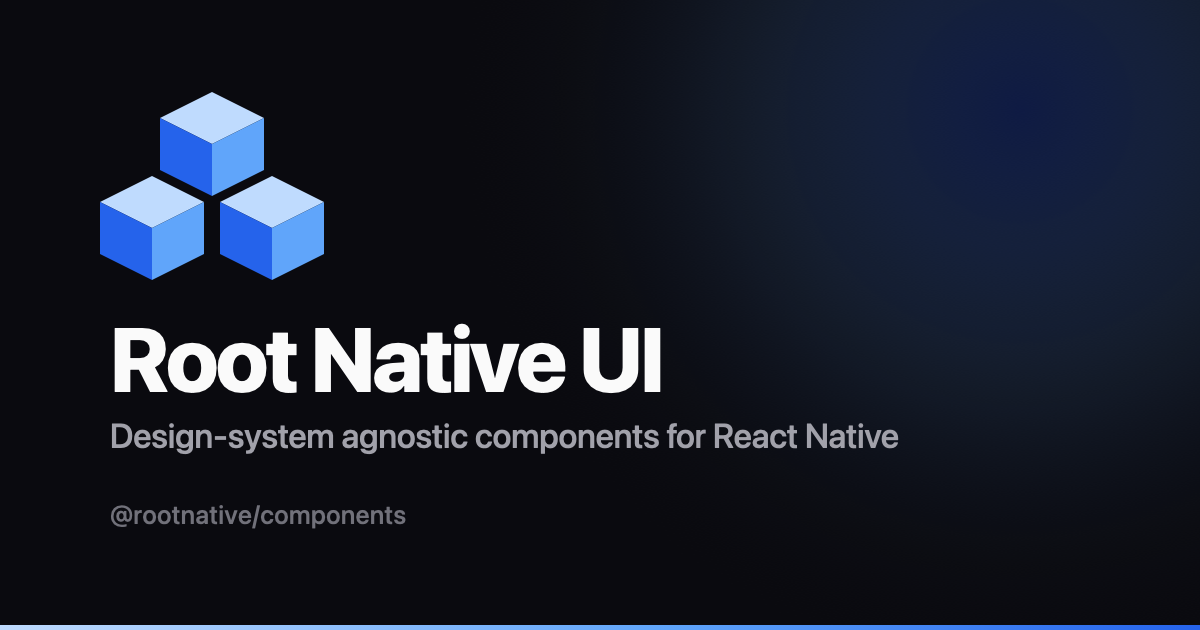
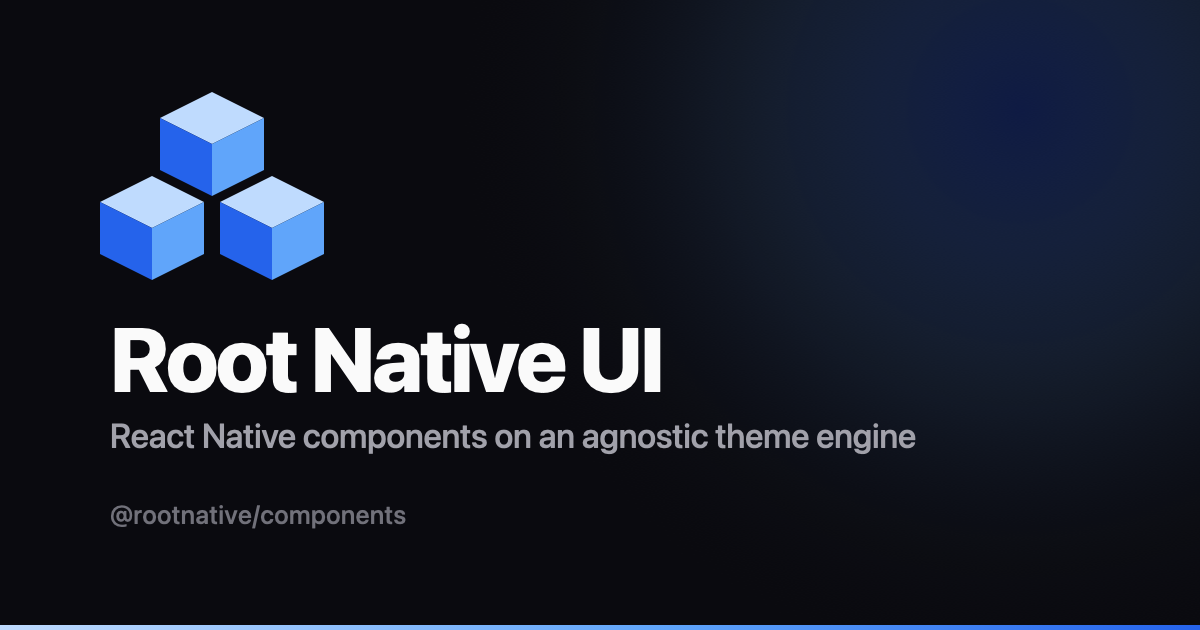
docs: say the theme engine is design-system agnostic, not the components

Changed region(s): [[0.0925, 0.6635, 0.7708, 0.7238]]

diff --git a/docs/src/pages/index.tsx b/docs/src/pages/index.tsx
@@ -165,9 +165,10 @@ function Hero() {
             <span className={styles.heroHighlight}>out of the box.</span>
           </h1>
           <p className={styles.heroTagline}>
-            A design-system agnostic component library. Ships with Material
-            Design 3, runs on iOS, Android, and web, works with Expo and bare
-            React Native, and stays out of your way when you want to customize.
+            Material Design 3 components on a design-system agnostic theme
+            engine. Restyle every component through the theme, add your own
+            tokens, and ship to iOS, Android, and the web, with Expo or bare
+            React Native.
           </p>
           <div className={styles.heroCtas}>
             <Link className={styles.ctaPrimary} to="/introduction">
@@ -235,9 +236,9 @@ function Stats() {
 
 const features = [
   {
-    title: 'Design-system agnostic',
+    title: 'Design-system agnostic theme',
     description:
-      'Use Material Design 3 out of the box, build your own theme system, or mix both. The theme engine adapts to your design language.',
+      'The components read the Material Design 3 roles. Give those roles your own values, add your own tokens beside them, or define a theme type for your own components.',
     Icon: IconTheme,
   },
   {

diff --git a/scripts/build-llms.ts b/scripts/build-llms.ts
@@ -3659,7 +3659,7 @@ ${seoApiContent()}
 function generateFullLlms(): string {
   return `# Root Native UI — Full API Reference
 
-> Design-system agnostic component library for React Native — ships with Material Design 3
+> React Native components on a design-system agnostic theme engine. Material Design 3 out of the box.
 > Versions: \`@rootnative/core\` ${CORE_VERSION} · \`@rootnative/components\` ${COMPONENTS_VERSION} · \`@rootnative/icons\` ${ICONS_VERSION} · \`@rootnative/seo\` ${SEO_VERSION} · \`@rootnative/cli\` ${CLI_VERSION}
 > Requirements: react-native ${COMPONENTS_RN}, react ${COMPONENTS_REACT}, Expo SDK ${EXPO_SDK}
 > Platforms: iOS, Android, and web through \`react-native-web\` (web also needs \`react-dom\`). Web without Expo (Vite, webpack, Electron) needs the config in the "Web without Expo" section below. Electron, macOS, Windows, and other React Native hosts are not tested.

diff --git a/docs/docusaurus.config.ts b/docs/docusaurus.config.ts
@@ -49,7 +49,7 @@ const config: Config = {
 
   title: 'Root Native UI',
   tagline:
-    'Design-system agnostic components for React Native on iOS, Android, and web',
+    'React Native components on a design-system agnostic theme engine. Material Design 3 out of the box.',
   url: 'https://rootnative.github.io',
   baseUrl,
   onBrokenLinks: 'throw',

diff --git a/README.md b/README.md
@@ -10,8 +10,8 @@
 <h1 align="center">Root Native UI</h1>
 
 <p align="center">
-  Components for React Native that follow your design system.<br />
-  Material Design 3 is the default. One codebase for iOS, Android, and the web.
+  Material Design 3 components for React Native, on a theme engine that takes your own design.<br />
+  One codebase for iOS, Android, and the web.
 </p>
 
 <p align="center">
@@ -49,7 +49,7 @@
 | Feature | What it does |
 | --- | --- |
 | **More than 35 components** | Buttons, cards, chips, dialogs, menus, sheets, tabs, text fields, sliders, and navigation bars, rails, and drawers. Each one has its own subpath export. |
-| **Any design system** | The theme engine takes your own tokens and your own theme type. Material Design 3 is only the default theme. |
+| **Design-system agnostic theme** | The components read the Material Design 3 roles. Give those roles your own values, add your own tokens beside them, or define a theme type for your own components. |
 | **A theme from one colour** | `createMaterialTheme('#006A6A')` makes a full Material light and dark theme from one seed colour. |
 | **Light and dark** | Give `ThemeProvider` a light and a dark theme. It follows the system, and `useThemeMode()` lets the user choose. |
 | **Expressive motion** | Spring transitions and a shape morph on press come from the Material 3 Expressive motion tokens. Each animation obeys the reduced-motion setting. |

diff --git a/docs/docs/index.md b/docs/docs/index.md
@@ -1,12 +1,12 @@
 ---
 slug: /introduction
 sidebar_position: 1
-description: Design-system agnostic component library for React Native, with Material Design 3 out of the box.
+description: React Native components on a design-system agnostic theme engine. Material Design 3 out of the box.
 ---
 
 # Root Native UI
 
-Root Native UI is a component library for React Native that follows your design system. Material Design 3 is the default.
+Root Native UI gives you Material Design 3 components for React Native, on a design-system agnostic theme engine. You restyle each component through the theme.
 
 It runs on iOS, Android, and the web (through `react-native-web`), on the Expo SDK 58 runtime. See [Installation](./installation#platforms) for the platform table.
 

diff --git a/templates/with-router/CLAUDE.md b/templates/with-router/CLAUDE.md
@@ -1,6 +1,6 @@
 # CLAUDE.md
 
-This project uses [Root Native UI](https://rootnative.github.io/ui/) (`@rootnative/*`) — a design-system agnostic component library for React Native, with Material Design 3 out of the box — and [Expo Router](https://docs.expo.dev/router/introduction/) for file-based navigation (screens live in `app/`).
+This project uses [Root Native UI](https://rootnative.github.io/ui/) (`@rootnative/*`) — Material Design 3 components for React Native, on a design-system agnostic theme engine — and [Expo Router](https://docs.expo.dev/router/introduction/) for file-based navigation (screens live in `app/`).
 
 ## Root Native UI docs for AI agents
 

diff --git a/templates/blank/CLAUDE.md b/templates/blank/CLAUDE.md
@@ -1,6 +1,6 @@
 # CLAUDE.md
 
-This project uses [Root Native UI](https://rootnative.github.io/ui/) (`@rootnative/*`) — a design-system agnostic component library for React Native, with Material Design 3 out of the box.
+This project uses [Root Native UI](https://rootnative.github.io/ui/) (`@rootnative/*`) — Material Design 3 components for React Native, on a design-system agnostic theme engine.
 
 ## Root Native UI docs for AI agents
 
